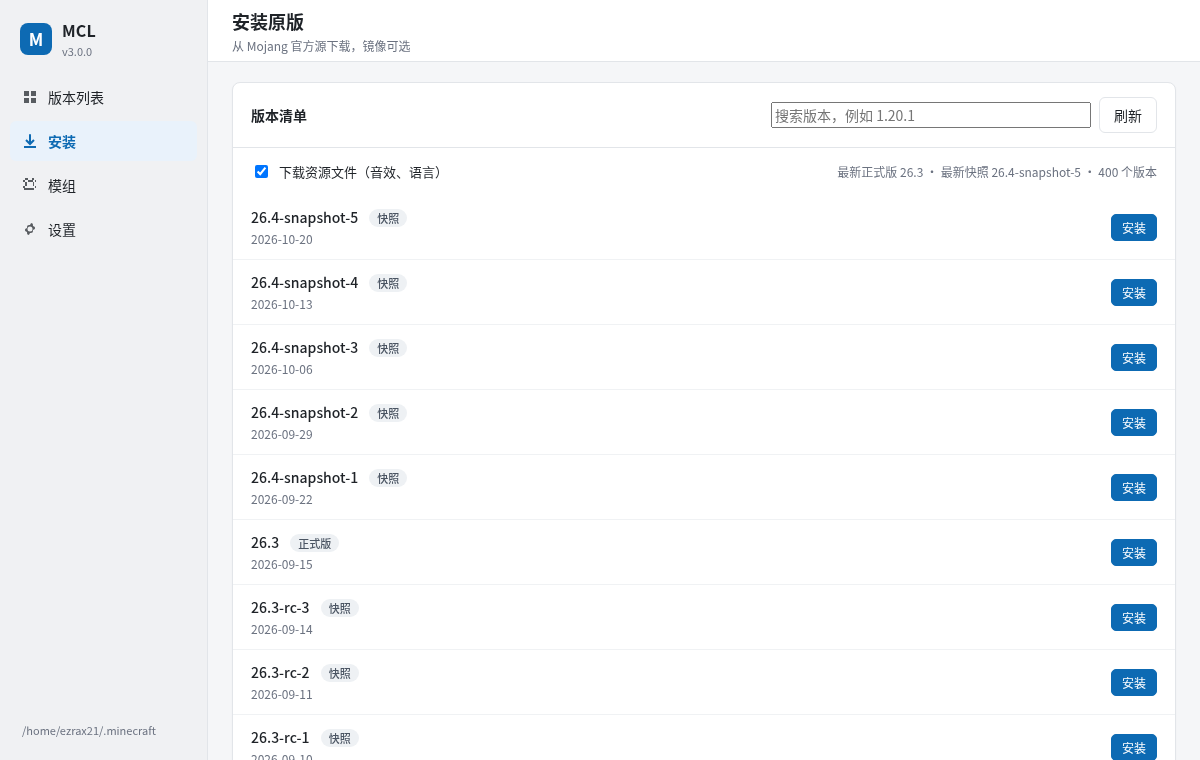
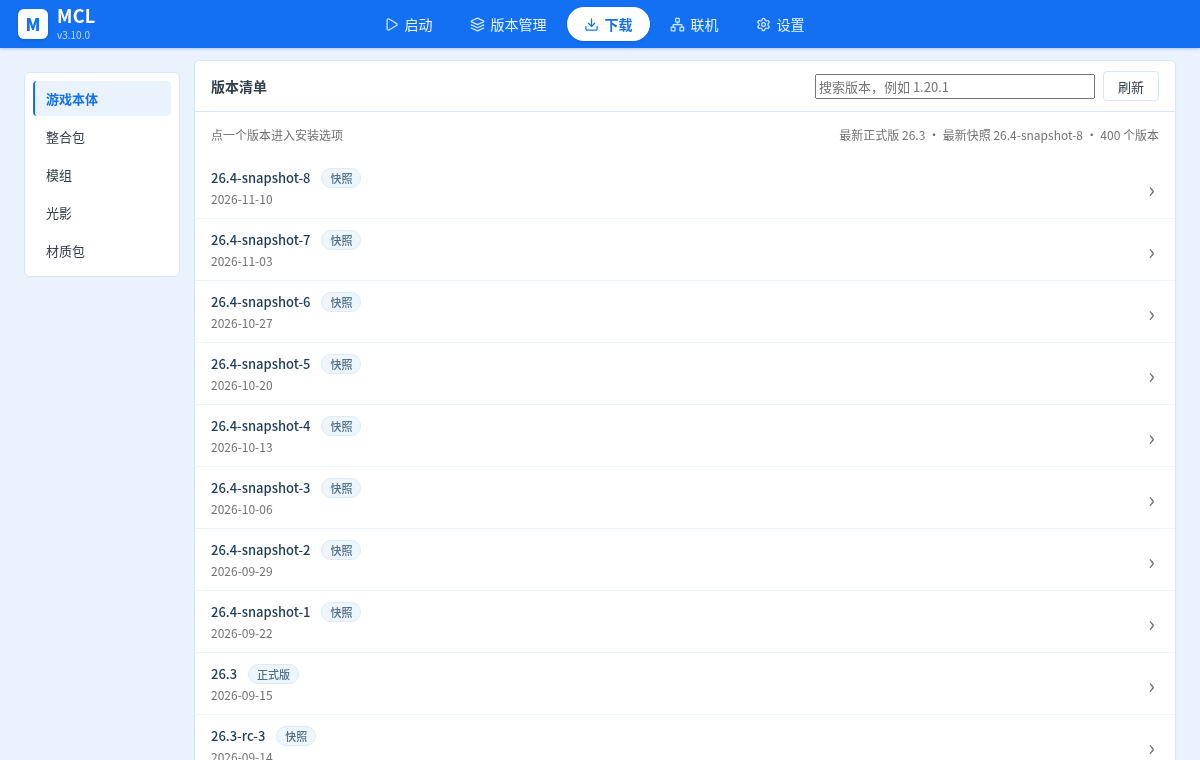
feat: 更新截图到 v3.11.0 的界面，补「版本管理」「联机」两个标签 (#1)
mclauncher 把「安装 / 资源 / 模组」合并成了「下载」页，导航变成
启动 / 版本管理 / 下载 / 联机 / 设置，官网的图还是旧的。

- 6 张同名图换成 mclauncher v3.11.0 重新生成的（1200x760，跟 img 尺寸一致）
- 新增 instance.png（版本管理）和 link.png（联机）
- 标签文案跟着界面改：版本→启动、安装→下载 · 游戏本体、模组/整合包→下载 · 模组、资源→下载 · 光影
- 中英双语文案同步更新

diff --git a/public/app.js b/public/app.js
@@ -45,17 +45,21 @@ const I18N = {
     "screens.eyebrow": "界面",
     "screens.title": "PCL 风格的干净桌面",
     "screens.sub": "左侧导航、白底卡片、蓝色主色；深色主题跟随系统。",
-    "screens.versions": "版本",
-    "screens.install": "安装",
-    "screens.mods": "模组 / 整合包",
-    "screens.resources": "资源",
+    "screens.versions": "启动",
+    "screens.instance": "版本管理",
+    "screens.install": "下载 · 游戏本体",
+    "screens.mods": "下载 · 模组",
+    "screens.resources": "下载 · 光影",
+    "screens.link": "联机",
     "screens.settings": "设置",
     "screens.dark": "深色",
-    "screens.caption.versions": "版本列表：启动、装加载器、崩溃分析",
-    "screens.caption.install": "安装原版：版本清单、资源开关与下载进度",
-    "screens.caption.mods": "模组 / 整合包：搜索、导入、本地管理",
-    "screens.caption.resources": "资源：光影与材质包",
-    "screens.caption.settings": "设置：目录、Java、主题、微软账号",
+    "screens.caption.versions": "启动：账号、版本选择、一键启动",
+    "screens.caption.instance": "版本管理：概览、单版本设置、模组、重命名 / 复制 / 导出整合包",
+    "screens.caption.install": "下载 · 游戏本体：版本清单、加载器选择、下载进度",
+    "screens.caption.mods": "下载 · 模组：Modrinth 搜索安装，自动补前置",
+    "screens.caption.resources": "下载 · 光影与材质包：搜索安装到实例目录",
+    "screens.caption.link": "联机：服务器列表、延迟与在线人数、一键进服",
+    "screens.caption.settings": "设置：目录、Java、主题、下载源、微软账号",
     "screens.caption.dark": "深色主题：可手动切换或跟随系统",
     "download.eyebrow": "下载",
     "download.title": "选你的平台，直接拿包",
@@ -137,17 +141,21 @@ const I18N = {
     "screens.eyebrow": "Screenshots",
     "screens.title": "A clean, PCL-inspired desktop",
     "screens.sub": "Sidebar navigation, white cards, blue accent; dark theme follows the system.",
-    "screens.versions": "Versions",
-    "screens.install": "Install",
-    "screens.mods": "Mods / modpacks",
-    "screens.resources": "Resources",
+    "screens.versions": "Launch",
+    "screens.instance": "Version management",
+    "screens.install": "Download · game",
+    "screens.mods": "Download · mods",
+    "screens.resources": "Download · shaders",
+    "screens.link": "Multiplayer",
     "screens.settings": "Settings",
     "screens.dark": "Dark",
-    "screens.caption.versions": "Versions: launch, add a loader, analyze crashes",
-    "screens.caption.install": "Install vanilla: version list, assets toggle and progress",
-    "screens.caption.mods": "Mods / modpacks: search, import and manage locally",
-    "screens.caption.resources": "Resources: shaders and resource packs",
-    "screens.caption.settings": "Settings: directories, Java, theme, Microsoft account",
+    "screens.caption.versions": "Launch: account, version picker, one-click start",
+    "screens.caption.instance": "Version management: overview, per-version settings, mods, rename / copy / export",
+    "screens.caption.install": "Download · game: version list, loader choice, progress",
+    "screens.caption.mods": "Download · mods: search and install from Modrinth with dependencies",
+    "screens.caption.resources": "Download · shaders and resource packs: search and install into the instance",
+    "screens.caption.link": "Multiplayer: server list with latency and player counts, one-click join",
+    "screens.caption.settings": "Settings: directories, Java, theme, download source, Microsoft account",
     "screens.caption.dark": "Dark theme: manual or follow the system",
     "download.eyebrow": "Download",
     "download.title": "Pick your platform. Grab the build.",
@@ -192,9 +200,11 @@ const I18N = {
 
 const SHOTS = {
   versions: { file: "versions.png", caption: "screens.caption.versions" },
+  instance: { file: "instance.png", caption: "screens.caption.instance" },
   install: { file: "install.png", caption: "screens.caption.install" },
   mods: { file: "mods.png", caption: "screens.caption.mods" },
   resources: { file: "resources.png", caption: "screens.caption.resources" },
+  link: { file: "link.png", caption: "screens.caption.link" },
   settings: { file: "settings.png", caption: "screens.caption.settings" },
   dark: { file: "dark.png", caption: "screens.caption.dark" },
 };

diff --git a/public/index.html b/public/index.html
@@ -83,7 +83,7 @@
 
         <div class="hero-shot">
           <div class="shot-frame">
-            <img src="assets/screens/versions.png" alt="MCL 版本列表界面" width="1200" height="760" />
+            <img src="assets/screens/versions.png" alt="MCL 启动界面" width="1200" height="760" />
           </div>
           <div class="shot-glow" aria-hidden="true"></div>
         </div>
@@ -143,16 +143,18 @@
         </header>
 
         <div class="shot-tabs" role="tablist" aria-label="截图">
-          <button class="shot-tab active" data-shot="versions" role="tab" aria-selected="true" data-i18n="screens.versions">版本</button>
-          <button class="shot-tab" data-shot="install" role="tab" aria-selected="false" data-i18n="screens.install">安装</button>
-          <button class="shot-tab" data-shot="mods" role="tab" aria-selected="false" data-i18n="screens.mods">模组 / 整合包</button>
-          <button class="shot-tab" data-shot="resources" role="tab" aria-selected="false" data-i18n="screens.resources">资源</button>
+          <button class="shot-tab active" data-shot="versions" role="tab" aria-selected="true" data-i18n="screens.versions">启动</button>
+          <button class="shot-tab" data-shot="instance" role="tab" aria-selected="false" data-i18n="screens.instance">版本管理</button>
+          <button class="shot-tab" data-shot="install" role="tab" aria-selected="false" data-i18n="screens.install">下载 · 游戏本体</button>
+          <button class="shot-tab" data-shot="mods" role="tab" aria-selected="false" data-i18n="screens.mods">下载 · 模组</button>
+          <button class="shot-tab" data-shot="resources" role="tab" aria-selected="false" data-i18n="screens.resources">下载 · 光影</button>
+          <button class="shot-tab" data-shot="link" role="tab" aria-selected="false" data-i18n="screens.link">联机</button>
           <button class="shot-tab" data-shot="settings" role="tab" aria-selected="false" data-i18n="screens.settings">设置</button>
           <button class="shot-tab" data-shot="dark" role="tab" aria-selected="false" data-i18n="screens.dark">深色</button>
         </div>
         <figure class="shot-viewer">
           <img id="shot-image" src="assets/screens/versions.png" width="1200" height="760" alt="MCL 界面截图" />
-          <figcaption id="shot-caption" data-i18n="screens.caption.versions">版本列表：启动、装加载器、崩溃分析</figcaption>
+          <figcaption id="shot-caption" data-i18n="screens.caption.versions">启动：账号、版本选择、一键启动</figcaption>
         </figure>
       </div>
     </section>
